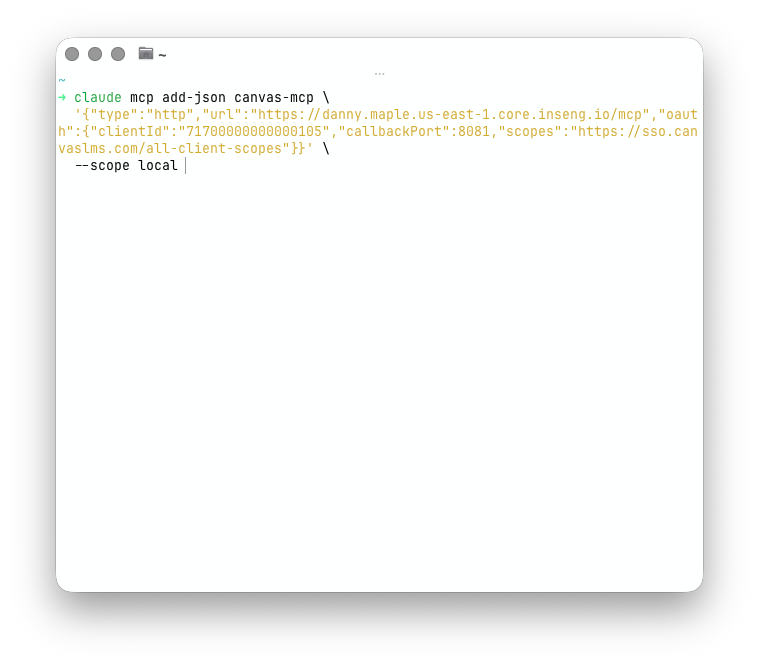
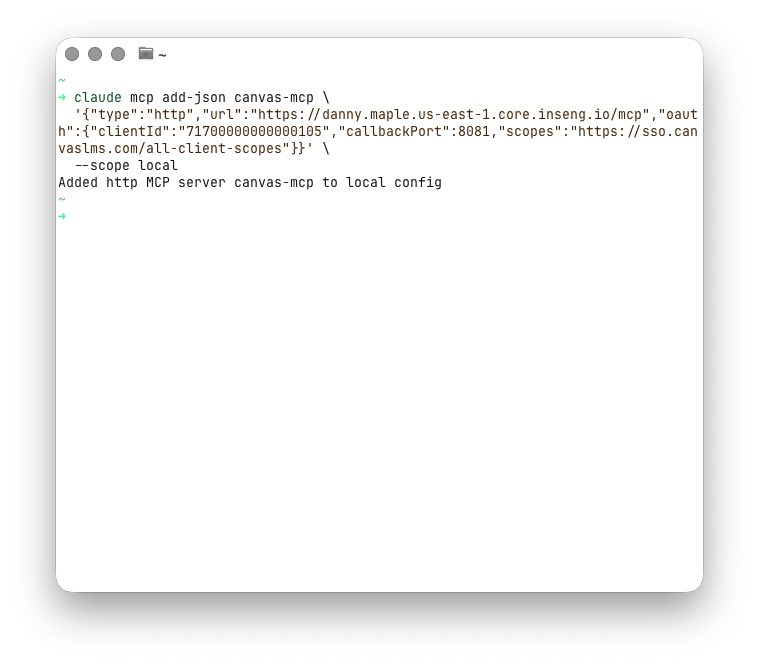
feat(canvas-mcp): add Claude Code images and enhance guide content with inline formatting support

Changed region(s): [[0.0909, 0.1201, 0.9091, 0.2402], [0.0606, 0.2703, 0.5758, 0.3003]]

diff --git a/apps/canvas-mcp/src/clients/curated/claude-code.ts b/apps/canvas-mcp/src/clients/curated/claude-code.ts
@@ -28,6 +28,31 @@ const personalGuide: Guide = {
 			action: "create",
 		},
 		{
+			id: "intro",
+			kind: "verify",
+			content: [
+				{
+					kind: "paragraph",
+					text: 'Configuring claude code requires you to choose the configuration scope first. In the example below we use `local`, but you can select `user` or `project` depending on your needs.',
+				},
+			],
+		},
+		{
+			id: "provider-scopes",
+			kind: "provider",
+			title: "Choose the configuration scope",
+			content: [
+				{
+					kind: "list",
+					items: [
+						"**local**: private to you in this project.",
+						"**user**: private to you across projects.",
+						"**project**: shares the server configuration in .mcp.json; each user still authenticates individually.",
+					],
+				},
+			],
+		},
+		{
 			id: "provider-public",
 			kind: "provider",
 			title: "Register a public client",
@@ -55,11 +80,11 @@ const personalGuide: Guide = {
 		{
 			id: "provider-private",
 			kind: "provider",
-			title: "Private-key alternative",
+			title: "Register a private client",
 			content: [
 				{
 					kind: "paragraph",
-					text: "The --client-secret flag prompts for the secret. Enter it at the prompt so it is not included in command history.",
+					text: "The `--client-secret` flag prompts for the secret. Enter it at the prompt so it is not included in command history.",
 				},
 				{
 					kind: "code-group",
@@ -75,24 +100,19 @@ const personalGuide: Guide = {
 					},
 				},
 				screenshot(
-					"claude_code_mcp_add_command",
+					"claude_code_mcp_add_command_private",
 					"terminal after `claude mcp add-json ... canvas-mcp` with success output.",
 				),
 			],
 			key: "private",
 		},
 		{
-			id: "provider-scopes",
-			kind: "provider",
-			title: "Choose the configuration scope",
+			id: "added",
+			kind: "verify",
 			content: [
 				{
-					kind: "list",
-					items: [
-						"local: private to you in this project.",
-						"user: private to you across projects.",
-						"project: shares the server configuration in .mcp.json; each user still authenticates individually.",
-					],
+					kind: "paragraph",
+					text: 'After you run the initial command you should see a confirmation that the Canvas MCP has been added successfully.',
 				},
 			],
 		},
@@ -101,22 +121,51 @@ const personalGuide: Guide = {
 			kind: "provider",
 			title: "Validate and authenticate",
 			content: [
+        {
+          kind: "paragraph",
+          text: "Validate that the Canvas MCP has been added successfully by retrieving its details. Claude will return the active configuration and the status will show '! Needs authentication' until you sign in.",
+        },
 				{
 					kind: "code",
 					language: "bash",
 					text: "claude mcp get canvas-mcp",
 				},
+				screenshot(
+					"claude_code_mcp_get",
+					"terminal after `claude mcp get canvas-mcp` showing the MCP details.",
+				),
 				{
-					kind: "list",
-					items: [
-						"Start a new Claude Code session with claude. The server shows Needs authentication until you sign in.",
-						"Open /mcp, select canvas-mcp → Needs Auth, then sign in to Canvas in the browser and approve access.",
-					],
-				},
+					kind: "paragraph",
+          text: "Start a new Claude Code session with `claude`. The terminal shows that an MCP server needs authentication.",
+        },
+				screenshot(
+					"claude_code_needs_auth",
+					"terminal after starting a new Claude Code session showing the MCP needs authentication.",
+				),
+        {
+          kind: "paragraph",
+          text: "Open `/mcp`, select **canvas-mcp**.",
+        },
 				screenshot(
 					"claude_code_mcp_needs_auth",
-					'`/mcp` panel with canvas-mcp showing "Needs authentication".',
+					"`/mcp` panel with canvas-mcp showing \"Needs authentication\".",
 				),
+        {
+          kind: "paragraph",
+          text: "You will be taken to the mcp settings for the Canvas MCP in Claude.",
+        },
+        screenshot(
+          "claude_code_mcp_authorize",
+          "`/mcp` panel with canvas-mcp showing the authorization page.",
+        ),
+        {
+          kind: "paragraph",
+          text: "Selecting **Authenticate** will automatically open your default browser for Canvas sign-in and authorization. If you haven't allowed claude to open the browser, it will provide a copyable URL.",
+        },
+        {
+          kind: "paragraph",
+          text: "Canvas will present you with a modal to authorize the **MCP Test** server for your user account. You may be required to sign in to Canvas first if you are not already signed in.",
+        },
 				canvasAuthorizationScreenshot(),
 			],
 		},
@@ -127,9 +176,14 @@ const personalGuide: Guide = {
 			content: [
 				{
 					kind: "paragraph",
-					text: "Reopen /mcp to check the connection and ask Claude to list your Canvas courses.",
+					text: "After authenticating, you can close the browser tab and return to Claude. You should see an **Authentication successful** message.",
 				},
-				screenshot("claude_code_mcp_connected", "`/mcp` showing canvas-mcp connected with tools."),
+				screenshot("claude_code_mcp_connected", "terminal showing canvas-mcp connected with tools."),
+				{
+					kind: "paragraph",
+					text: "You're now connected to the Canvas MCP and ready to begin prompting. Try asking Claude to list your Canvas courses.",
+				},
+				screenshot("claude_code_mcp_list_courses", "terminal showing the list of Canvas courses."),
 			],
 		},
 	],

diff --git a/apps/canvas-mcp/src/guides/render.ts b/apps/canvas-mcp/src/guides/render.ts
@@ -57,13 +57,21 @@ function renderCode(block: CodeSnippet, values: Record<string, string>): string 
 	return `<div class="shiki-block language-${block.language}"><button class="instui-button -color-tertiary -shape-square -icon-copy -size-sm shiki-copy" type="button" data-copy-template="${escapeHtml(block.text)}" data-copy="${escapeHtml(resolved)}" data-label="Configuration" aria-label="Copy configuration" title="Copy configuration" ${ready ? "" : "disabled"}></button>${highlighted}</div>`;
 }
 
+function inlineMarkup(text: string): string {
+	return text.replace(
+		/`([^`\n]+)`|\*\*((?:`[^`\n]+`|[^*\n])+)\*\*/gu,
+		(_, code: string | undefined, strong: string | undefined) =>
+			code !== undefined ? `<code>${code}</code>` : `<strong>${inlineMarkup(strong!)}</strong>`,
+	);
+}
+
 export function renderContent(
 	content: StructuredContent[],
 	values: Record<string, string>,
 	platform: PlatformPreference = "auto",
 ): string {
 	const text = (value: string) =>
-		escapeHtml(value).replace(/\{([a-zA-Z][a-zA-Z0-9]*)\}/gu, (_, token: string) => {
+		inlineMarkup(escapeHtml(value)).replace(/\{([a-zA-Z][a-zA-Z0-9]*)\}/gu, (_, token: string) => {
 			if (!Object.hasOwn(values, token)) throw new Error(`Unknown guide token: ${token}`);
 			return `<span data-guide-token="${token}">${escapeHtml(values[token])}</span>`;
 		});
@@ -146,7 +154,7 @@ function renderStep(
 		const domain = model.productionDomain;
 		return `<section class="guide-section" data-guide-step="${step.id}" data-surface="canvas"><h3 class="instui-heading -level-h3">Canvas — add the generated redirect URI</h3><p>Copy the redirect URI generated by the saved connector. Edit the same Canvas developer key, add that URI to Redirect URIs, and save before completing OAuth.</p>${domain ? `<p><a href="https://${escapeHtml(domain)}/accounts/self/developer_keys" target="_blank" rel="noopener noreferrer">Open Canvas Developer Keys</a></p>` : "<p>Enter your Canvas domain to build the Developer Keys link.</p>"}</section>`;
 	}
-	return `<section class="guide-section" data-guide-step="${step.id}" data-surface="provider"><h3 class="instui-heading -level-h3">${escapeHtml(step.title)}</h3>${renderContent(step.content, guideValues(client, state, model), state.platform)}</section>`;
+	return `<section class="guide-section" data-guide-step="${step.id}" data-surface="provider">${step.title ? `<h3 class="instui-heading -level-h3">${escapeHtml(step.title)}</h3>` : ""}${renderContent(step.content, guideValues(client, state, model), state.platform)}</section>`;
 }
 function renderAdminAction(
 	client: ClientDefinition,
@@ -177,7 +185,7 @@ export function renderGuide(
 	const splitEnterprise =
 		editable && state.install === "enterprise" && guide.presentation === "by-surface";
 	const provider = client.enterpriseSurface ?? client.name;
-	const heading = `<h2 class="instui-heading -level-h2 --mb-2xl">${editable && guide.presentation === "by-surface" && activeSurface === "canvas" ? "Key settings for " : ""}${escapeHtml(client.name)}</h2>`;
+	const heading = `<div class="guide-heading"><h2 class="instui-heading -level-h2 --mb-2xl">${editable && guide.presentation === "by-surface" && activeSurface === "canvas" ? "Key settings for " : ""}${escapeHtml(client.name)}</h2></div>`;
 	// A connection blocker does not hide the administrator's provisioning instructions.
 	if (client.blocker && !editable) return heading;
 	const pending =

diff --git a/apps/canvas-mcp/tests/guides.test.ts b/apps/canvas-mcp/tests/guides.test.ts
@@ -15,6 +15,66 @@ beforeEach(() => {
 });
 afterEach(() => vi.unstubAllGlobals());
 describe("composable client guides", () => {
+	it("supports inline code and bold in paragraphs, lists, and link labels", () => {
+		document.body.innerHTML = renderContent(
+			[
+				{ kind: "paragraph", text: "Open `/mcp`, then **Needs Auth** or **run `claude`**." },
+				{ kind: "list", items: ["Choose **Connect** for `canvas-mcp`."] },
+				{ kind: "link", label: "**Read** the `guide`", url: "https://example.test/" },
+			],
+			{},
+		);
+		expect(document.querySelector("p > code")?.textContent).toBe("/mcp");
+		expect(document.querySelector("p > strong")?.textContent).toBe("Needs Auth");
+		expect(document.querySelector("strong > code")?.textContent).toBe("claude");
+		expect(document.querySelector("li > strong")?.textContent).toBe("Connect");
+		expect(document.querySelector("li > code")?.textContent).toBe("canvas-mcp");
+		expect(document.querySelector("a > strong")?.textContent).toBe("Read");
+		expect(document.querySelector("a > code")?.textContent).toBe("guide");
+	});
+
+	it("escapes HTML and treats code contents and interpolated values as literal text", () => {
+		const value = '<img src=x onerror="bad()"> **not bold** `not code`';
+		document.body.innerHTML = renderContent(
+			[
+				{
+					kind: "paragraph",
+					text: "<script>bad()</script> **<b>safe</b>** `**literal** <em>code</em>` **`{clientId}`**",
+				},
+			],
+			{ clientId: value },
+		);
+		expect(document.querySelector("script, b, em, img")).toBeNull();
+		expect(document.querySelector("p > code")?.textContent).toBe("**literal** <em>code</em>");
+		const token = document.querySelector('[data-guide-token="clientId"]');
+		expect(token?.textContent).toBe(value);
+		expect(token?.children).toHaveLength(0);
+		expect(token?.parentElement?.tagName).toBe("CODE");
+		expect(token?.parentElement?.parentElement?.tagName).toBe("STRONG");
+	});
+
+	it("keeps unmatched inline markers literal and rejects unknown tokens", () => {
+		expect(renderContent([{ kind: "paragraph", text: "Plain `code and **bold" }], {})).toBe(
+			"<p>Plain `code and **bold</p>",
+		);
+		expect(() => renderContent([{ kind: "paragraph", text: "**`{missing}`**" }], {})).toThrow(
+			"Unknown guide token: missing",
+		);
+	});
+
+	it("renders the untitled Claude Code introduction as a paragraph without a heading", () => {
+		const state = readState("?client=claude-code", null);
+		document.body.innerHTML = renderGuide(clientDefinition(state.client), state, false);
+
+		const introduction = document.querySelector('[data-guide-step="intro"]');
+		expect(introduction?.querySelector("h3")).toBeNull();
+		expect(introduction?.firstElementChild?.tagName).toBe("P");
+		expect(introduction?.textContent).toContain("configuration scope first");
+		expect(document.querySelector('[data-guide-step="provider-scopes"] h3')?.textContent).toBe(
+			"Choose the configuration scope",
+		);
+	});
+
 	it("uses the shared Canvas authorization image in every available client sign-in flow", () => {
 		for (const client of CLIENTS)
 			for (const install of client.installModes)

diff --git a/apps/canvas-mcp/src/main.css b/apps/canvas-mcp/src/main.css
@@ -299,10 +299,8 @@ pre {
 .guide-section {
     margin-top: 26px;
     padding-top: 22px;
-    border-top: 1px solid color-mix(in srgb, var(--instui-color-text-base) 18%, transparent);
 }
 
-.guide-section>p,
 .intro-copy {
     color: color-mix(in srgb, var(--instui-color-text-base) 62%, transparent);
     font-size: 14px;
@@ -466,18 +464,12 @@ pre {
 .shiki-block.language-prompt {
     border-color: transparent;
     background:
-        linear-gradient(
-                to right,
-                var(--instui-component-shared-tokens-background-ai-top-gradient-color) 0%,
-                var(--instui-component-shared-tokens-background-ai-bottom-gradient-color) 100%
-            )
-            padding-box,
-        linear-gradient(
-                to right,
-                var(--instui-component-shared-tokens-background-ai-bottom-gradient-color) 0%,
-                var(--instui-component-shared-tokens-background-ai-top-gradient-color) 100%
-            )
-            border-box;
+        linear-gradient(to right,
+            var(--instui-component-shared-tokens-background-ai-top-gradient-color) 0%,
+            var(--instui-component-shared-tokens-background-ai-bottom-gradient-color) 100%) padding-box,
+        linear-gradient(to right,
+            var(--instui-component-shared-tokens-background-ai-bottom-gradient-color) 0%,
+            var(--instui-component-shared-tokens-background-ai-top-gradient-color) 100%) border-box;
 }
 
 .scope-card {
@@ -722,6 +714,12 @@ pre {
 
 .print-context {
     display: none;
+}
+
+.content>section,
+.content>.guide-heading {
+    max-width: 75ch;
+    margin: 0 auto;
 }
 
 @media print {

diff --git a/apps/canvas-mcp/src/guides/screenshot-manifest.ts b/apps/canvas-mcp/src/guides/screenshot-manifest.ts
@@ -28,11 +28,28 @@ export const SCREENSHOT_MANIFEST: Record<string, ScreenshotAsset> = {
 	claude_code_doctor_managed_settings: { size: "terminal" },
 	claude_code_mcp_add_command: {
 		file: "images/client-claude_code-mcp_add_command.png",
-		size: { width: 759, height: 666 },
+		size: "terminal",
 	},
-	claude_code_mcp_connected: { size: "terminal" },
+	claude_code_mcp_authorize: {
+		file: "images/client-claude_code-authorize-mcp.png",
+		size: "terminal",
+	},
+	claude_code_mcp_get: {
+		file: "images/client-claude_code-get_mcp.png",
+		size: "terminal",
+	},
+	claude_code_needs_auth: {
+		file: "images/client-claude_code-needs-auth.png",
+		size: "terminal",
+	},
+	claude_code_mcp_add_command_private: { file:"images/client-claude_code-mcp_add_private_command.png",size: "terminal"},
+	claude_code_mcp_connected: { file: "images/client-claude_code-mcp_connected.png",size: "terminal" },
+	claude_code_mcp_list_courses: { file: "images/client-claude_code-list-courses.png",size: "terminal" },
 	claude_code_mcp_managed_section: { size: "terminal" },
-	claude_code_mcp_needs_auth: { size: "terminal" },
+	claude_code_mcp_needs_auth: {
+		file: "images/client-claude_code-start_auth.png",
+		size: "terminal",
+	},
 	claude_member_canvas_signin_consent: {},
 	claude_member_custom_connector_connect: {},
 	claude_personal_add_custom_connector_url: {},

diff --git a/apps/canvas-mcp/src/guides/screenshots.ts b/apps/canvas-mcp/src/guides/screenshots.ts
@@ -2,7 +2,7 @@ import { SCREENSHOT_MANIFEST } from "./screenshot-manifest";
 import { type StructuredContent } from "./types";
 
 const standardSize = { width: 960, height: 540 } as const,
-	terminalSize = { width: 960, height: 360 } as const;
+	terminalSize = { width: 600, height: 360 } as const;
 
 export function screenshot(
 	name: string,

diff --git a/apps/canvas-mcp/src/guides/types.ts b/apps/canvas-mcp/src/guides/types.ts
@@ -26,7 +26,7 @@ export type GuideStep =
 			kind: "provider" | "verify";
 			key?: "public" | "private";
 			audience?: "server" | "client";
-			title: string;
+			title?: string;
 			content: StructuredContent[];
 	  };
 export type ClientGuideStep = Exclude<GuideStep, { kind: "canvas-key" }>;

diff --git a/apps/canvas-mcp/readme.md b/apps/canvas-mcp/readme.md
@@ -33,6 +33,8 @@ Client setup descriptions are intentionally generic where vendor-specific OAuth 
 
 ## Maintenance structure
 
+Guide paragraph text, list items, and link labels support inline code with backticks and bold with `**text**` (including code inside bold). Raw HTML is escaped, and `{token}` values remain literal text inside formatting. Titles, image alt text, and code blocks do not use this inline syntax.
+
 `src/app.ts` owns state, events and persistence. `src/page.ts` composes the page. Shared admin components live in `src/admin/config.ts`, `server-details.ts`, and `key-settings.ts`; `key-settings-model.ts` resolves client facts into the same Canvas fields in every guide.
 
 Each `src/clients/curated/<name>.ts` exports a typed definition with its own facts, evidence, supported install modes and guides. Add the definition to `clients/index.ts` and add a new ID to `clients/ids.ts` when needed. Existing Rulesync IDs remain accepted aliases. The IDE and CLI variants of Antigravity have separate evidence; CLI instructions must not be applied to the IDE.
